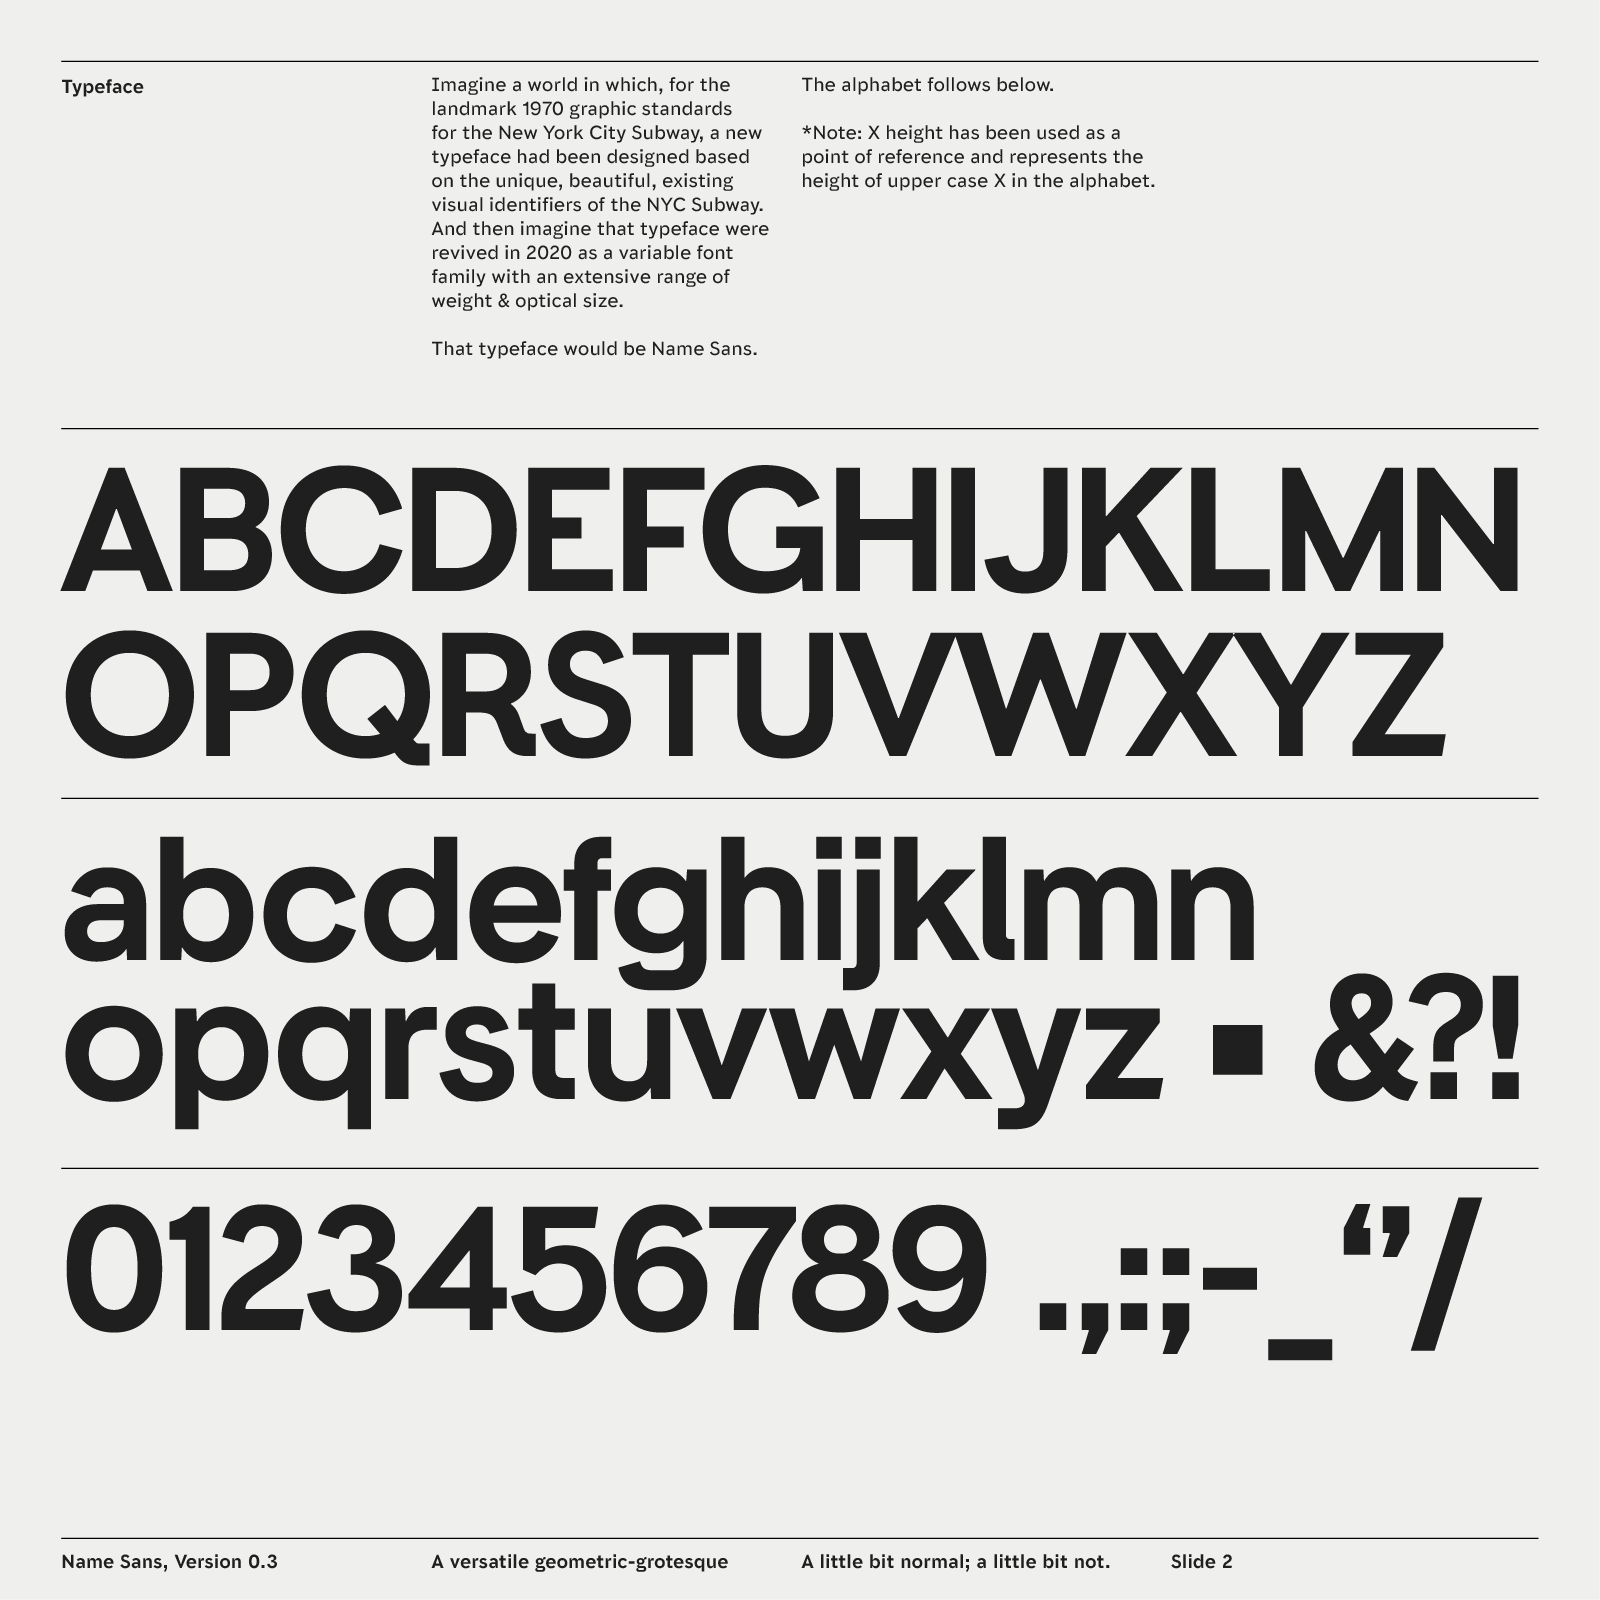
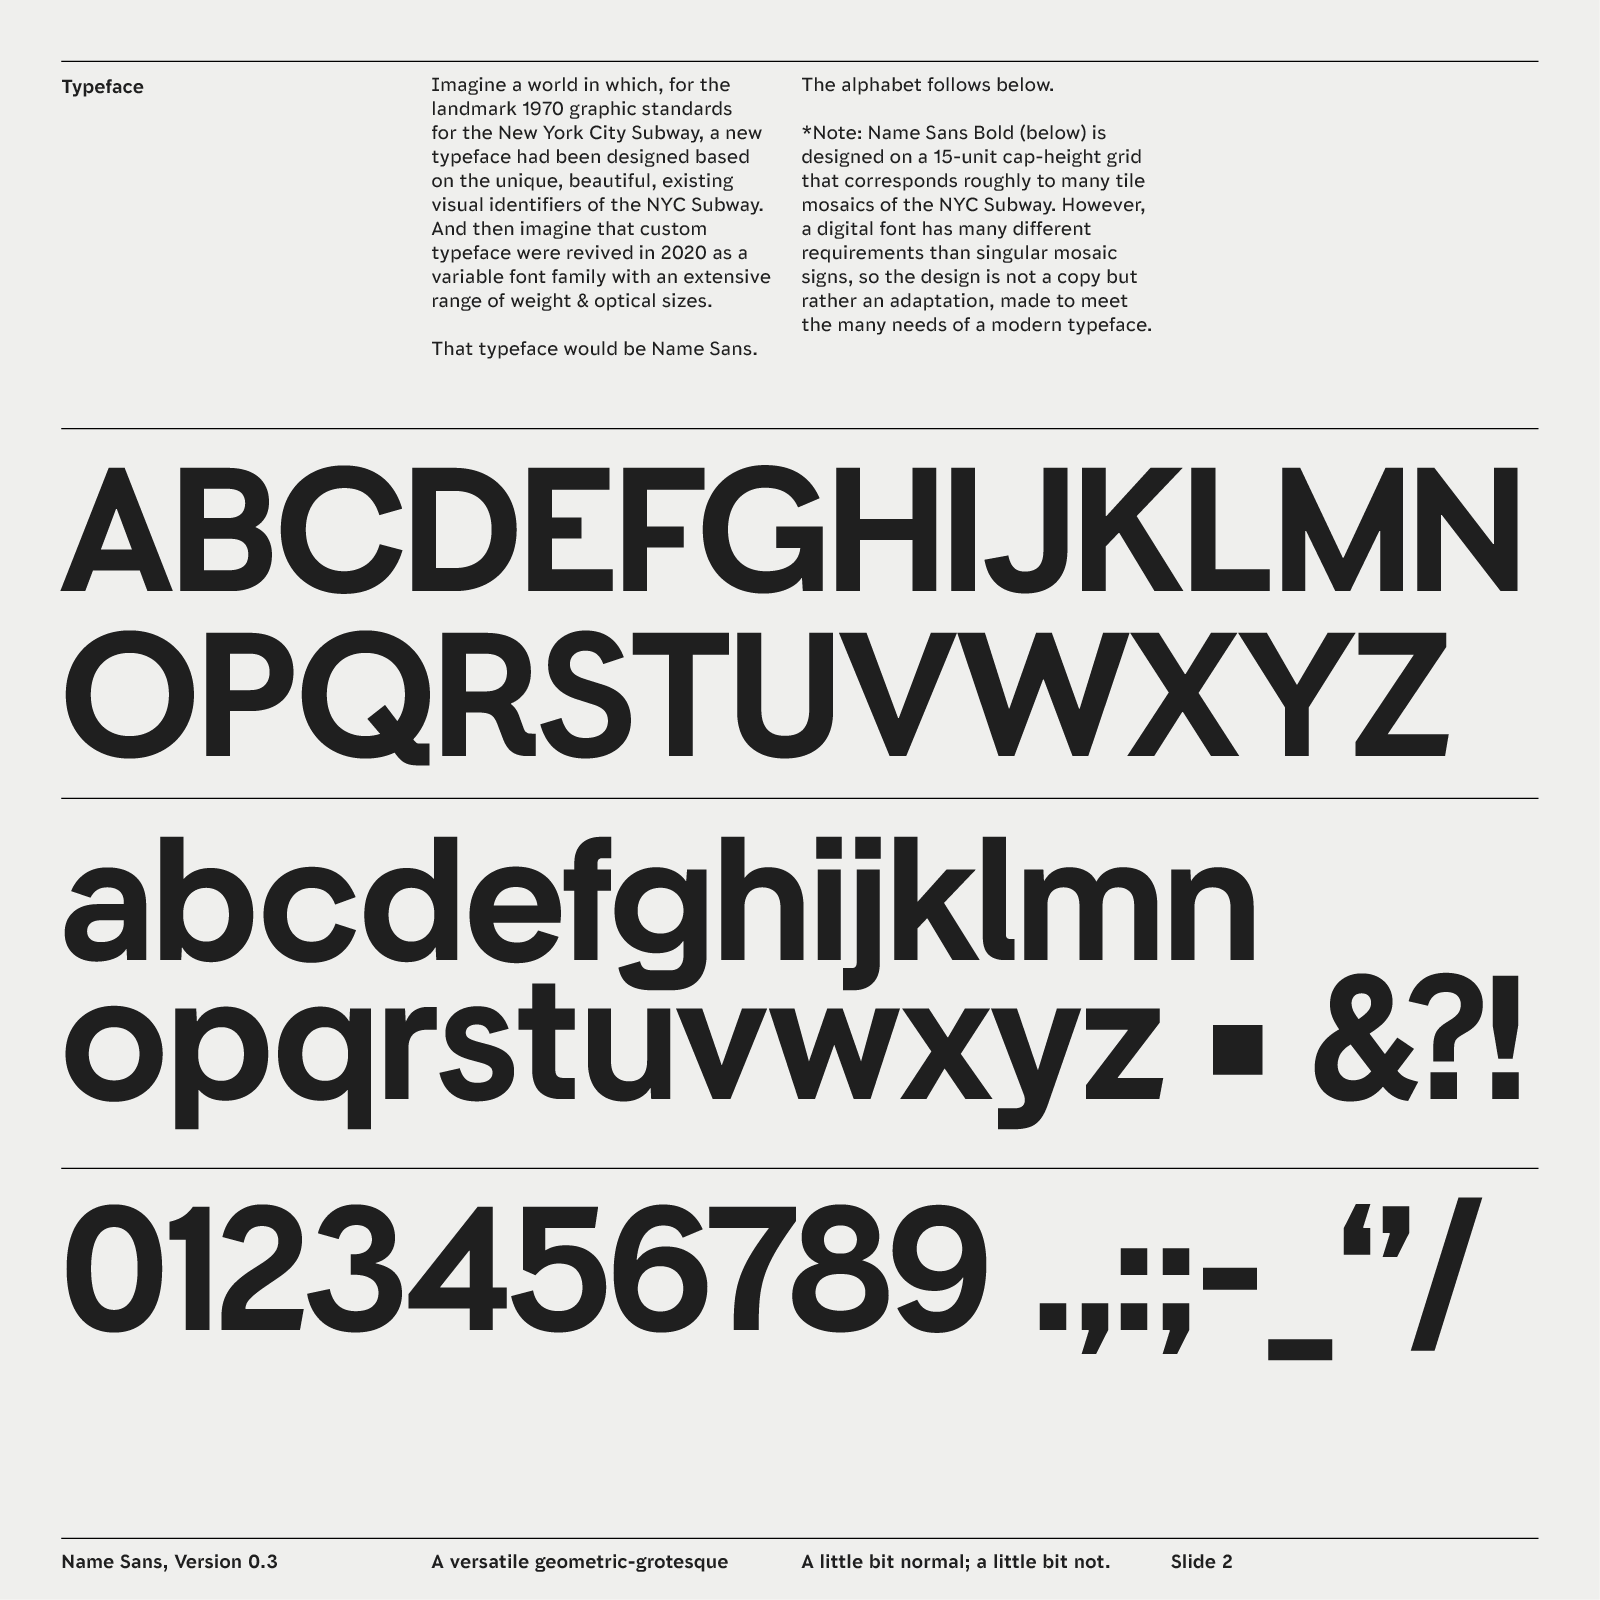
add v0.3 images

diff --git a/README.md b/README.md
@@ -10,10 +10,25 @@ Do you have a question, feature request, or bug report for Name Sans? Awesome! P
 
 Name Sans is currently released in version `0.2`, with Weights 1–700 and Optical Sizes 12–96.
 
-![title card](images/name_sans_v02__01b-cover-may_2020.png)
+![title card](images/01-cover-image-red.png)
 
-![description](images/name_sans_v02__02-future-thinking.png)
+![basic alphabet](images/02-basic_alphabet.png)
 
-![current styles](images/name_sans_v02__03-styles.png)
+![inspiration in subway name tablets](images/03-future-thinking.png)
+
+![available styles](images/04-styles.png)
+
+![optical sizes](images/05-opsz-lines.png)
+
+![variable alternates](images/06-rvrn.png)
+
+![character set sample](images/07-charset-bold.png)
+
+![S interpolations](images/08-weights_s.png)
+
+![rectangular alternate caps](images/09-rect_caps.png)
+
+![coming in version 0.4](images/11-coming_soon.png)
+
 
 Follow along on Instagram ([@ArrowType](https://instagram.com/arrowtype)) or see more on [Future Fonts](https://www.futurefonts.xyz/arrowtype/name-sans).
